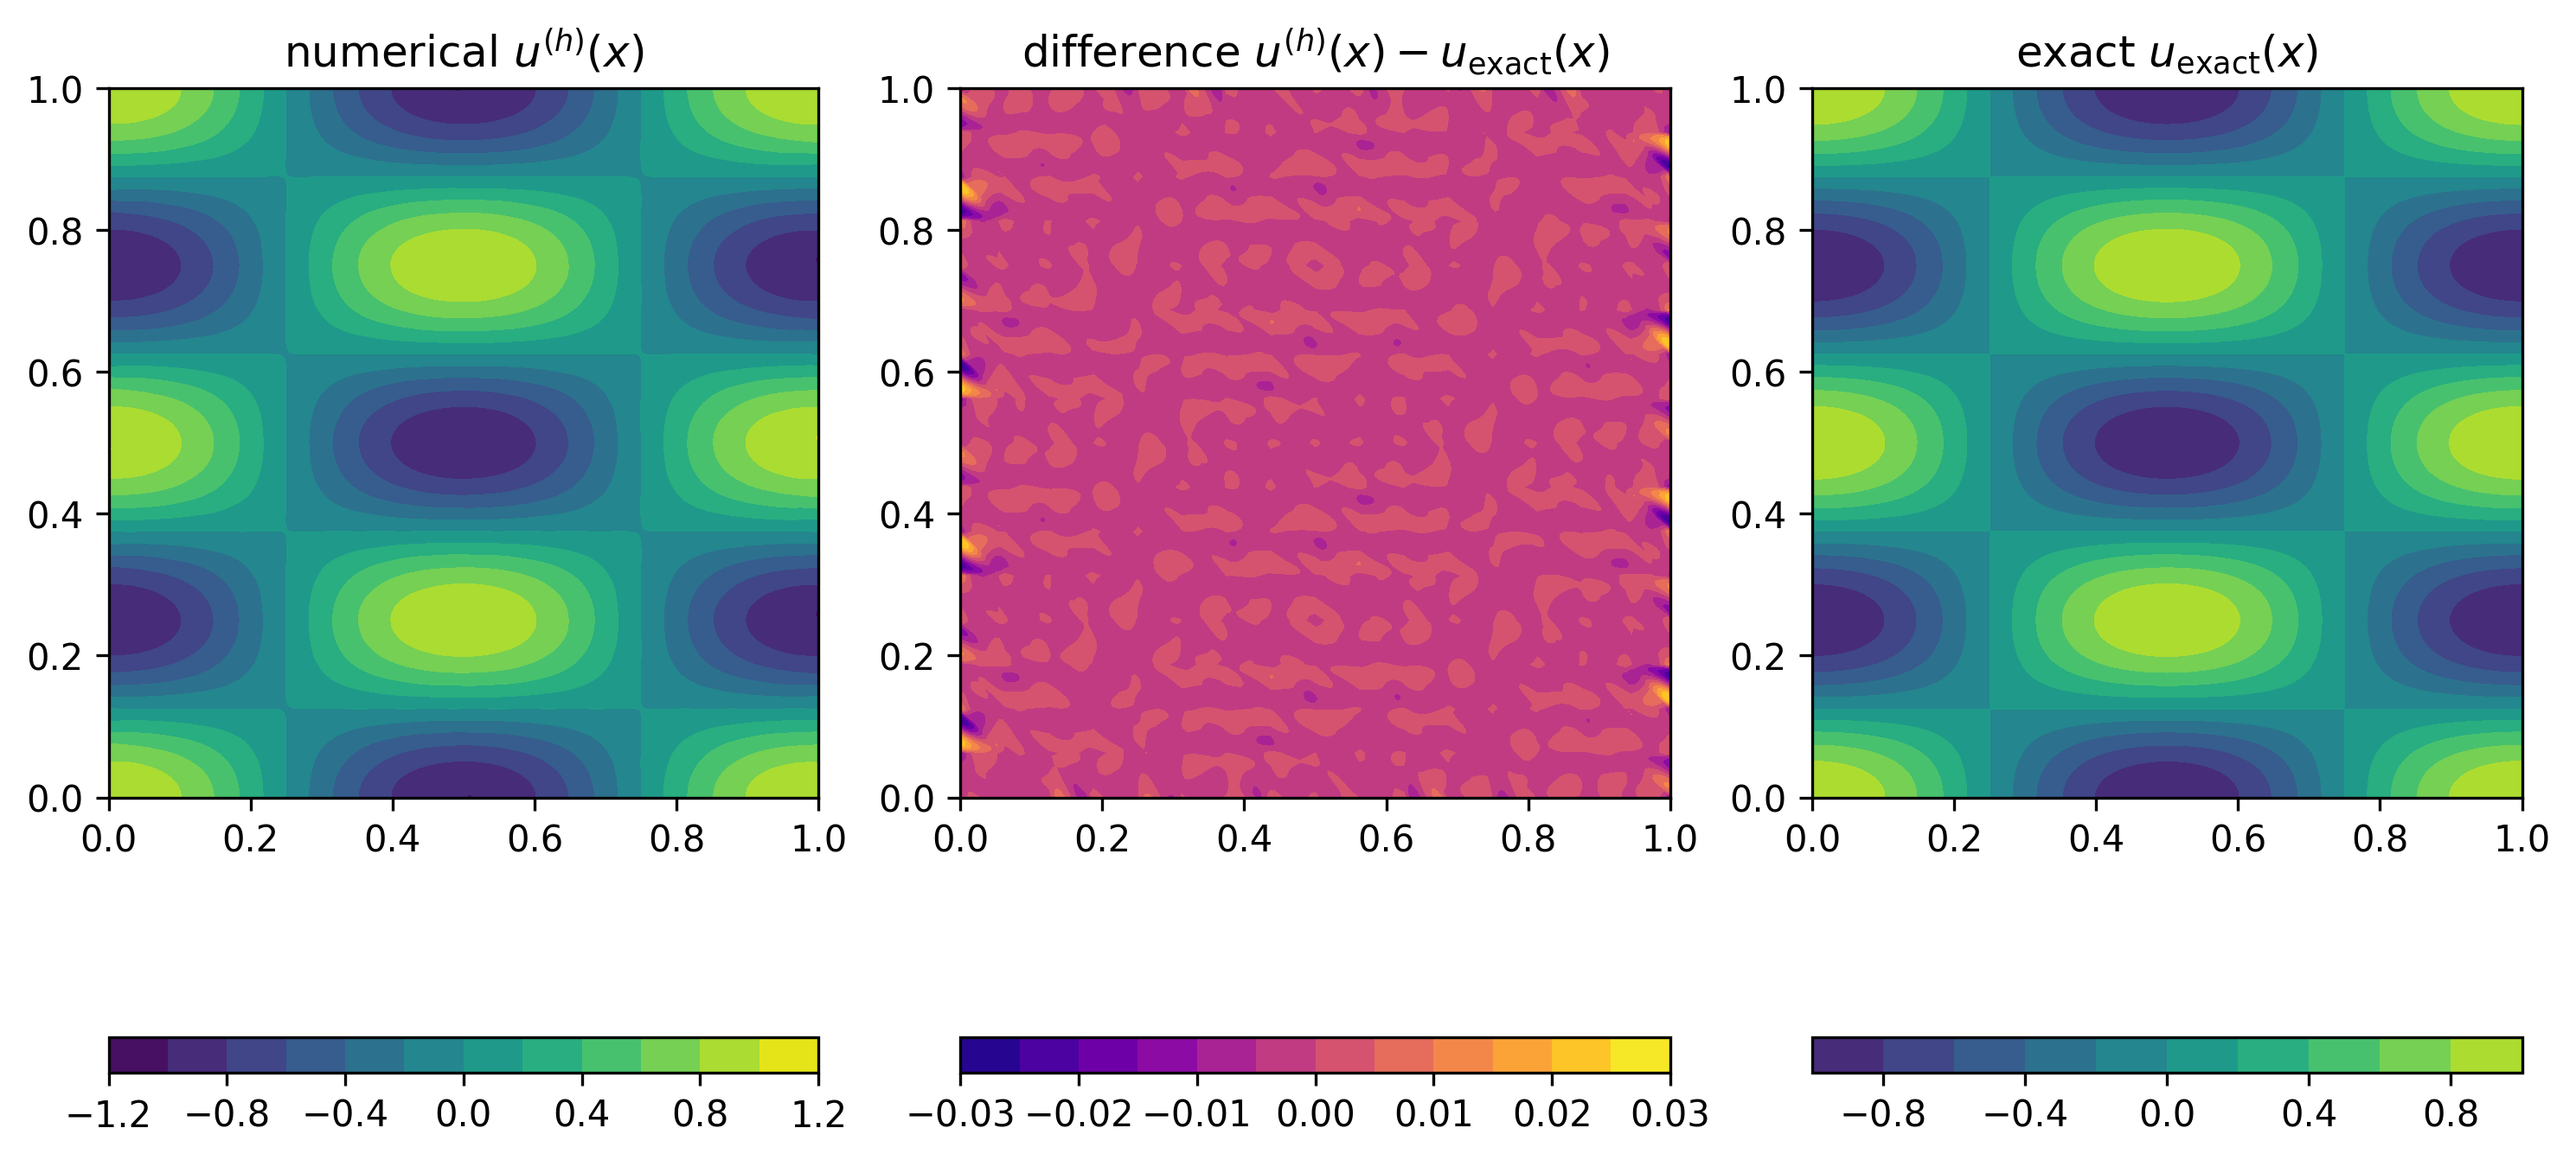
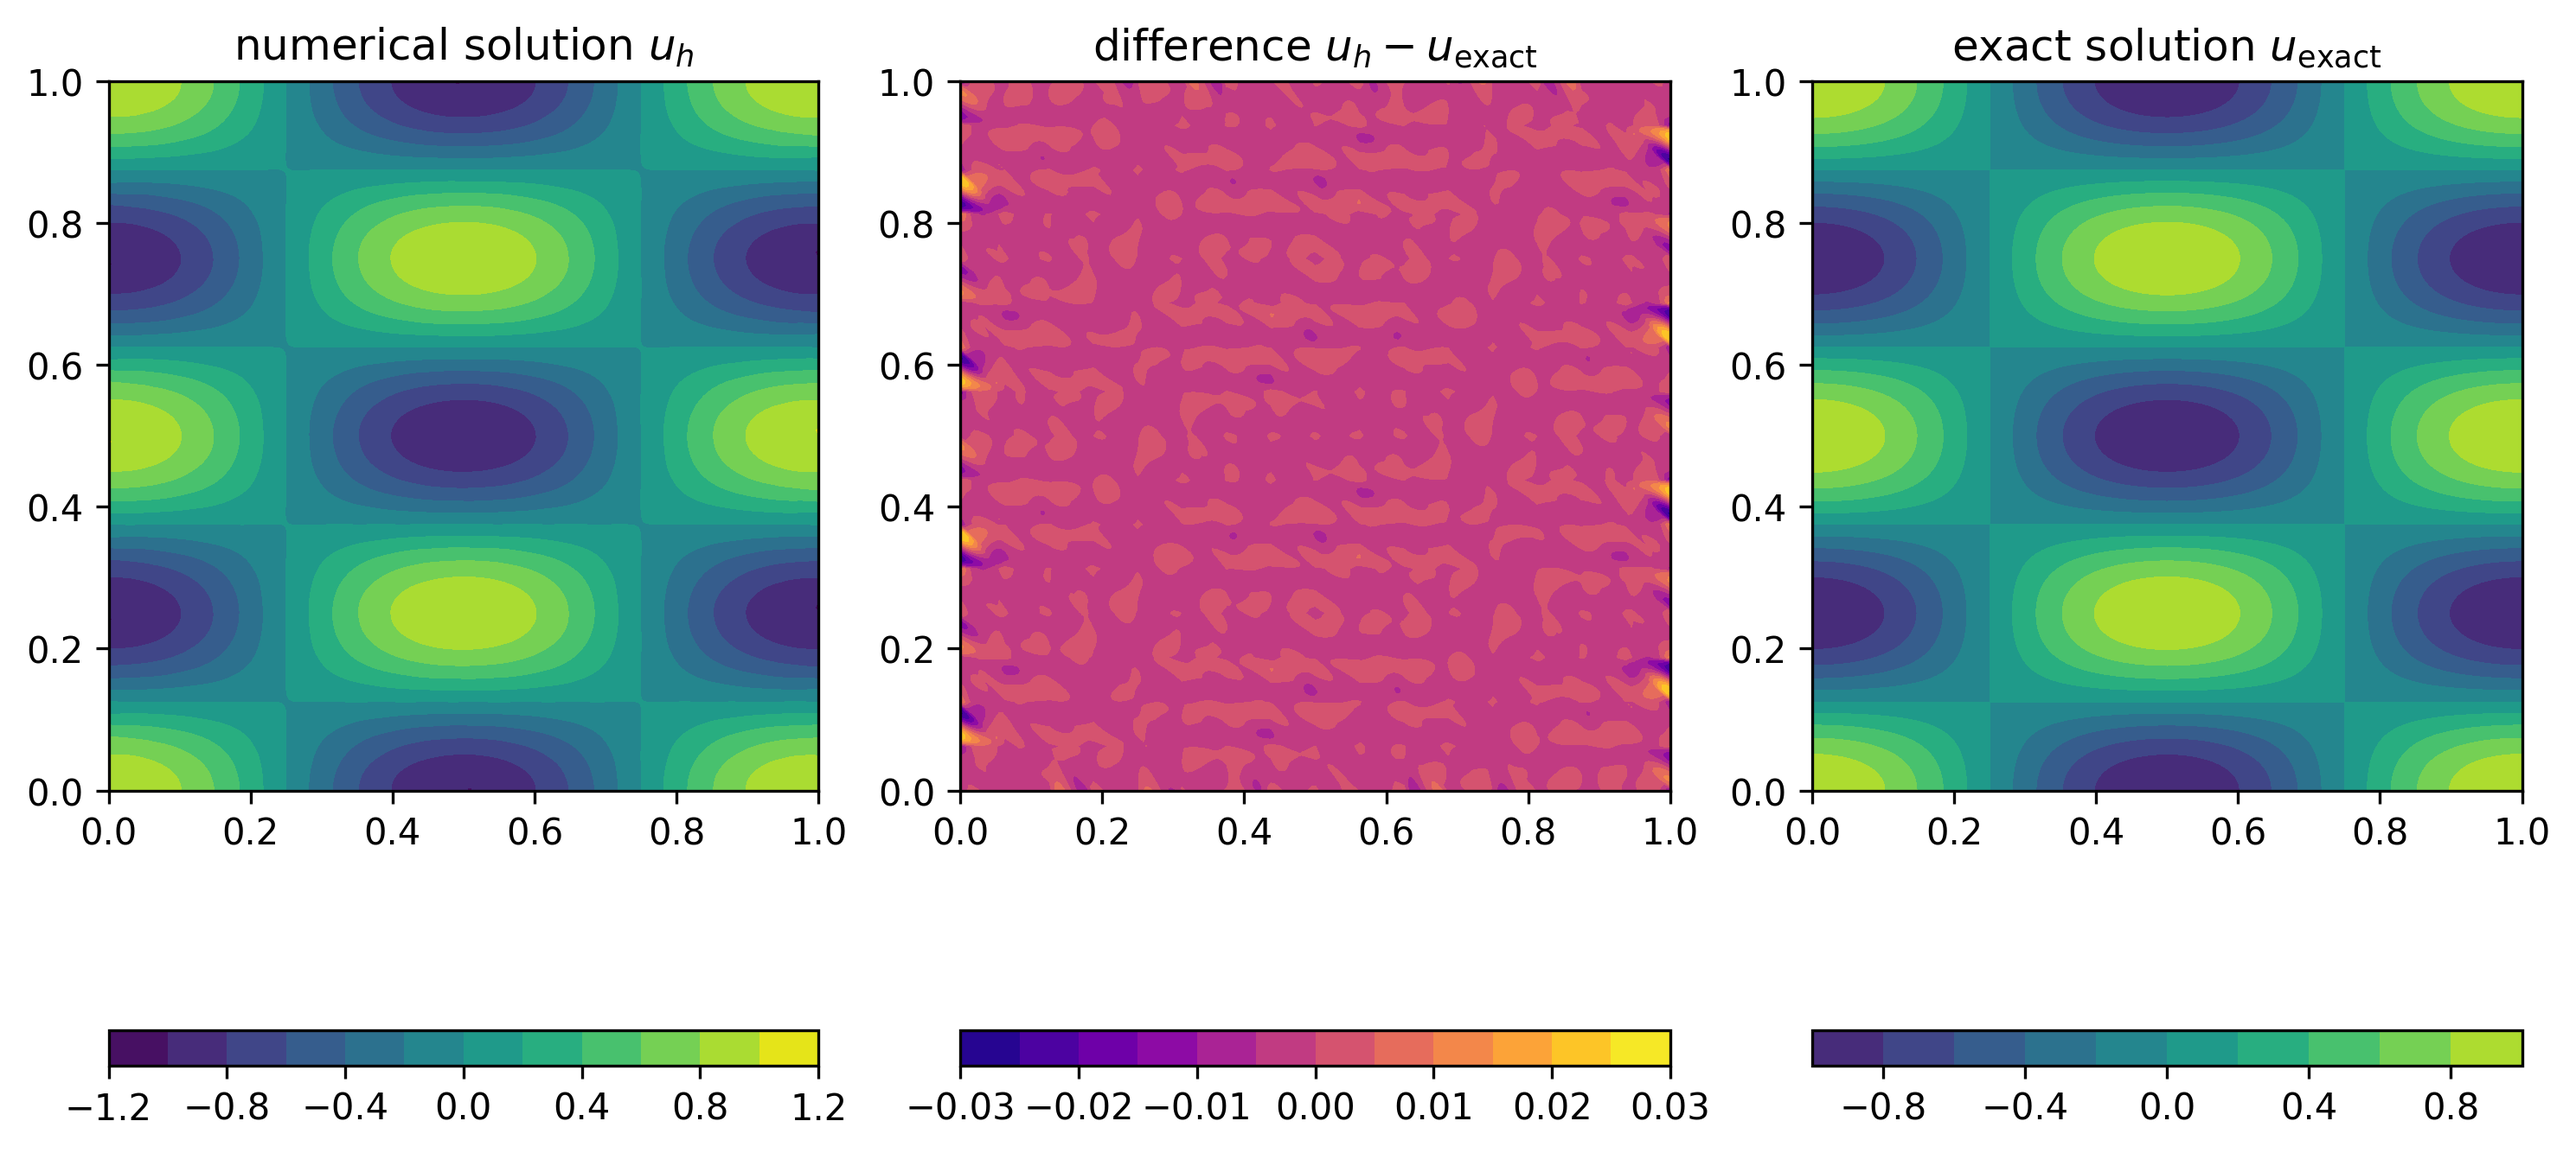
Updated text and figures

diff --git a/lectures/Notes.md b/lectures/Notes.md
@@ -1963,7 +1963,7 @@ A_h[np.ix_(ell_global, ell_global)] += A_h_local[:,:]
 Global assembly of the stiffness matrix $A^{(h)}$ is implemented in the function `assemble_lhs(fs, quad, kappa, omega)` in [fem/assembly.py](https://github.com/eikehmueller/finiteelements/blob/main/src/fem/assembly.py). The function gets passed a function space `fs`, quadrature rule `quad` and values of the constants $\kappa$ and $\omega$.
 
 ## Numerical experiments
-We consider the following manufactured solution
+Let us now use the code we have written for far to solve @eqn:pde_continuum with the finite element method. We consider the following manufactured solution
 
 $$
 u(x) = \cos(\pi s_0 x_0) \cos(\pi s_1 x_1) \qquad\text{for $s_0, s_1\in \mathbb{N}$}
@@ -1973,24 +1973,24 @@ in the domain $\Omega = [0,1]\times[0,1]$. It is easy to see that this satisfies
 
 For the numerical experiments we choose the piecewise linear element implemented as `LinearElement` in [fem/linearelement.py](https://github.com/eikehmueller/finiteelements/blob/main/src/fem/linearelement.py) and the rectangle mesh `rectangle_mesh` in [fem/utilitymeshes.py](https://github.com/eikehmueller/finiteelements/blob/main/src/fem/utilitymeshes.py).
 
-We use the function `assemble_rhs()` to construct the vector $\boldsymbol{b}^{(h)}$ and `assemble_lhs()` to assemble $A^{(h)}$. Solving $A^{(h)}\boldsymbol{u}^{(h)} = \boldsymbol{b}^{(h)}$, we obtain $\boldsymbol{u}^{(h)}$; as pointed out above, both functions are defined in [fem/assembly.py](https://github.com/eikehmueller/finiteelements/blob/main/src/fem/assembly.py).
+We use the function `assemble_rhs()` to construct the vector $\boldsymbol{b}^{(h)}$ and `assemble_lhs()` to assemble $A^{(h)}$; as pointed out above, both functions are defined in [fem/assembly.py](https://github.com/eikehmueller/finiteelements/blob/main/src/fem/assembly.py). Solving $A^{(h)}\boldsymbol{u}^{(h)} = \boldsymbol{b}^{(h)}$, we obtain the dof-vector $\boldsymbol{u}^{(h)}$ which defines the numerical solution $u_h\in \mathcal{V}_h$ according to @eqn:linear_algebra_problem.
 
 ### Visualisation of solution and error
-To visualise the solution and the error, [fem/utilities.py](https://github.com/eikehmueller/finiteelements/blob/main/src/fem/utilities.py) provides a method `grid_function(u_h,nx=100,ny=100)`. This is passed a finite element function $u^{(h)}$ which is evaluated at the points of a structured rectangular grid which covers the domain. The $(n_x+1)(n_y+1)$ vertices of this grid are given by
+To visualise the solution and the error, [fem/utilities.py](https://github.com/eikehmueller/finiteelements/blob/main/src/fem/utilities.py) provides a method `grid_function(u_h,nx=100,ny=100)`. This is passed a finite element function $u_h$, i.e. an instance `u_h` of the `Function` class, which is evaluated at the points of a structured rectangular grid which covers the domain (this grid is only used for visualisation, it has nothing to do with the underlying mesh that defines the finite element space). The $(n_x+1)(n_y+1)$ vertices of this grid are given by
 
 $$
 x_{i,j} = \begin{pmatrix}
-x^{(0)}_0+h_x i \\ x^{(0)}_1 + h_y j
+x^{(0)}_0+H_x i \\ x^{(0)}_1 + H_y j
 \end{pmatrix}\in\mathbb{R}^2
 \qquad\text{for $i=0,1,2,\dots,n_x$, $j=0,1,2,\dots,n_y$}
 $$
-where $x^{(0)}\in\mathbb{R}^2$ is some suitable offset and $h_x,h_y$ are the grid spacings. The method `grid_function()` returns three arrays $X$, $Y$, $Z$ of shape $(n_x+1,n_y+1)$:
+where $x^{(0)}\in\mathbb{R}^2$ is some suitable offset and $H_x,H_y$ are the grid spacings. The method `grid_function()` returns three arrays $X$, $Y$, $Z$ of shape $(n_x+1,n_y+1)$:
 
-* The $x$- coordinates of the grid vertices, i.e. $X_{i,j} = x^{(0)}_0+h_x i$
-* The $y$- coordiantes of the grid vertices, i.e. $Y_{i,j} = x^{(0)}_1+h_y j$
-* The values of the function $u^{(h)}$ evaluated at the grid vertices, i.e. $Z_{i,j} = u^{(h)}(x_{i,j})$
+* The $x$- coordinates of the grid vertices, i.e. $X_{i,j} = x^{(0)}_0+H_x i$
+* The $y$- coordiantes of the grid vertices, i.e. $Y_{i,j} = x^{(0)}_1+H_y j$
+* The values of the function $u_h$ evaluated at the grid vertices, i.e. $Z_{i,j} = u_h(x_{i,j})$
 
-This allows plotting the function for example with [matplotlib's `contourf()`](https://matplotlib.org/stable/api/_as_gen/matplotlib.pyplot.contourf.html):
+This then allows plotting the function for example with [matplotlib's `contourf()`](https://matplotlib.org/stable/api/_as_gen/matplotlib.pyplot.contourf.html):
 
 ```Python
 from matplotlib import pyplot as plt
@@ -1998,14 +1998,14 @@ X, Y, Z = grid_function(u_h)
 plt.contourf(X, Y, Z)
 ```
 
-With this, it is also easy to compare the numerical solution $u^{(h)}(x)$ to the exact solution $u_{\text{exact}}(x) = \cos(2\pi x_0)\cos(4\pi x_1)$:
+With this, it is also easy to compare the numerical solution $u_h(x)$ to the exact solution $u_{\text{exact}}(x) = \cos(2\pi x_0)\cos(4\pi x_1)$:
 
 ```Python
 Z_exact = np.cos(2*np.pi*X)*np.cos(4*np.pi*Y)
 plt.contourf(X, Y, Z-Z_exact)
 ```
 
-@fig:solution_and_error_linear visualises the numerical solution $u^{(h)}$ (left), the exact solution $u_{\text{exact}}$ (right) and their difference $u^{(h)} - u_{\text{exact}}$ (centre) for a rectangle mesh with $n_{\text{ref}}=4$ refinements and piecewise linear finite elements.
+@fig:solution_and_error_linear visualises the numerical solution $u_h$ (left), the exact solution $u_{\text{exact}}$ (right) and their difference $u_h - u_{\text{exact}}$ (centre) for a rectangle mesh with $n_{\text{ref}}=4$ refinements and piecewise linear finite elements.
 
 ![:fig:solution_and_error_linear: Visualisation of finite element solution and error for piecewise linear finite elements](figures/solution_linear.png)
 
